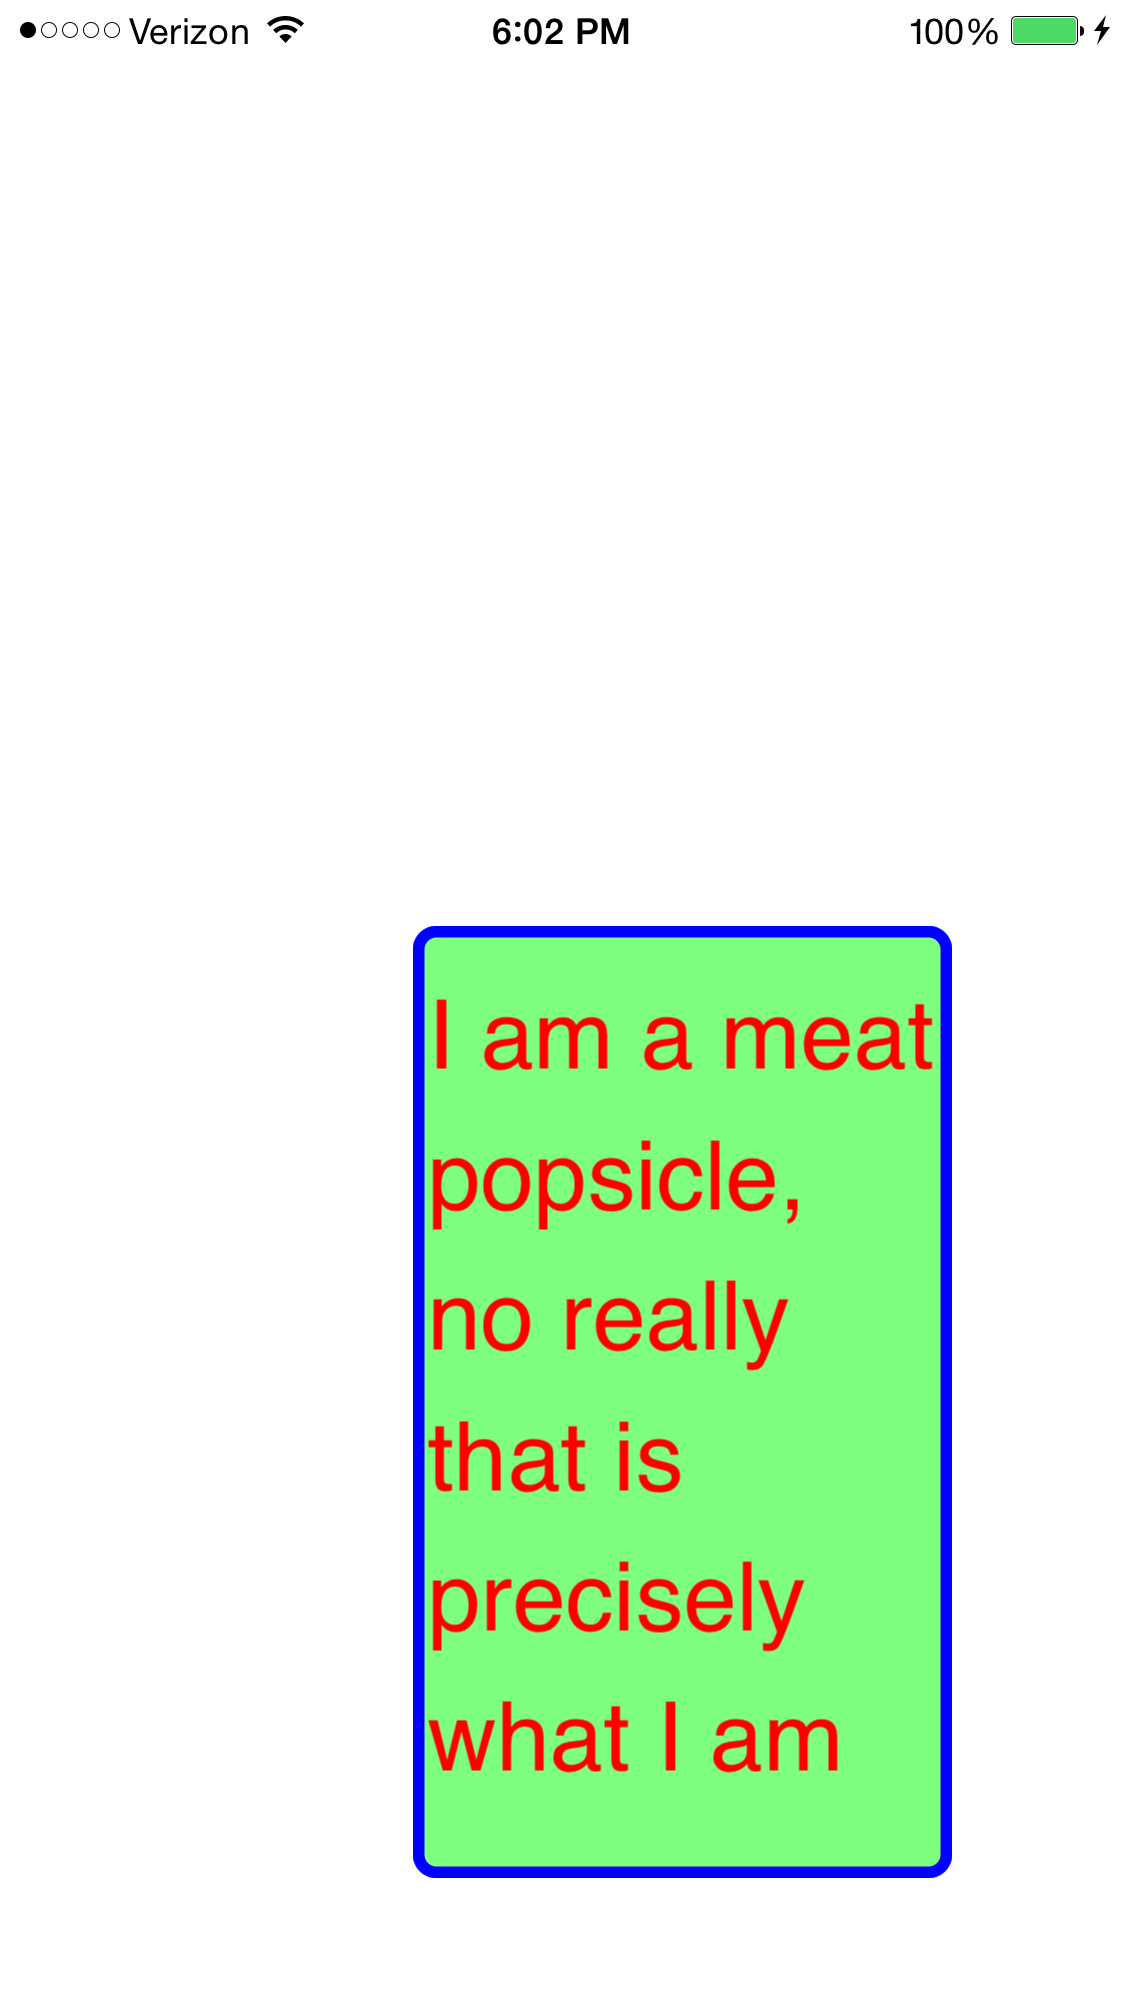
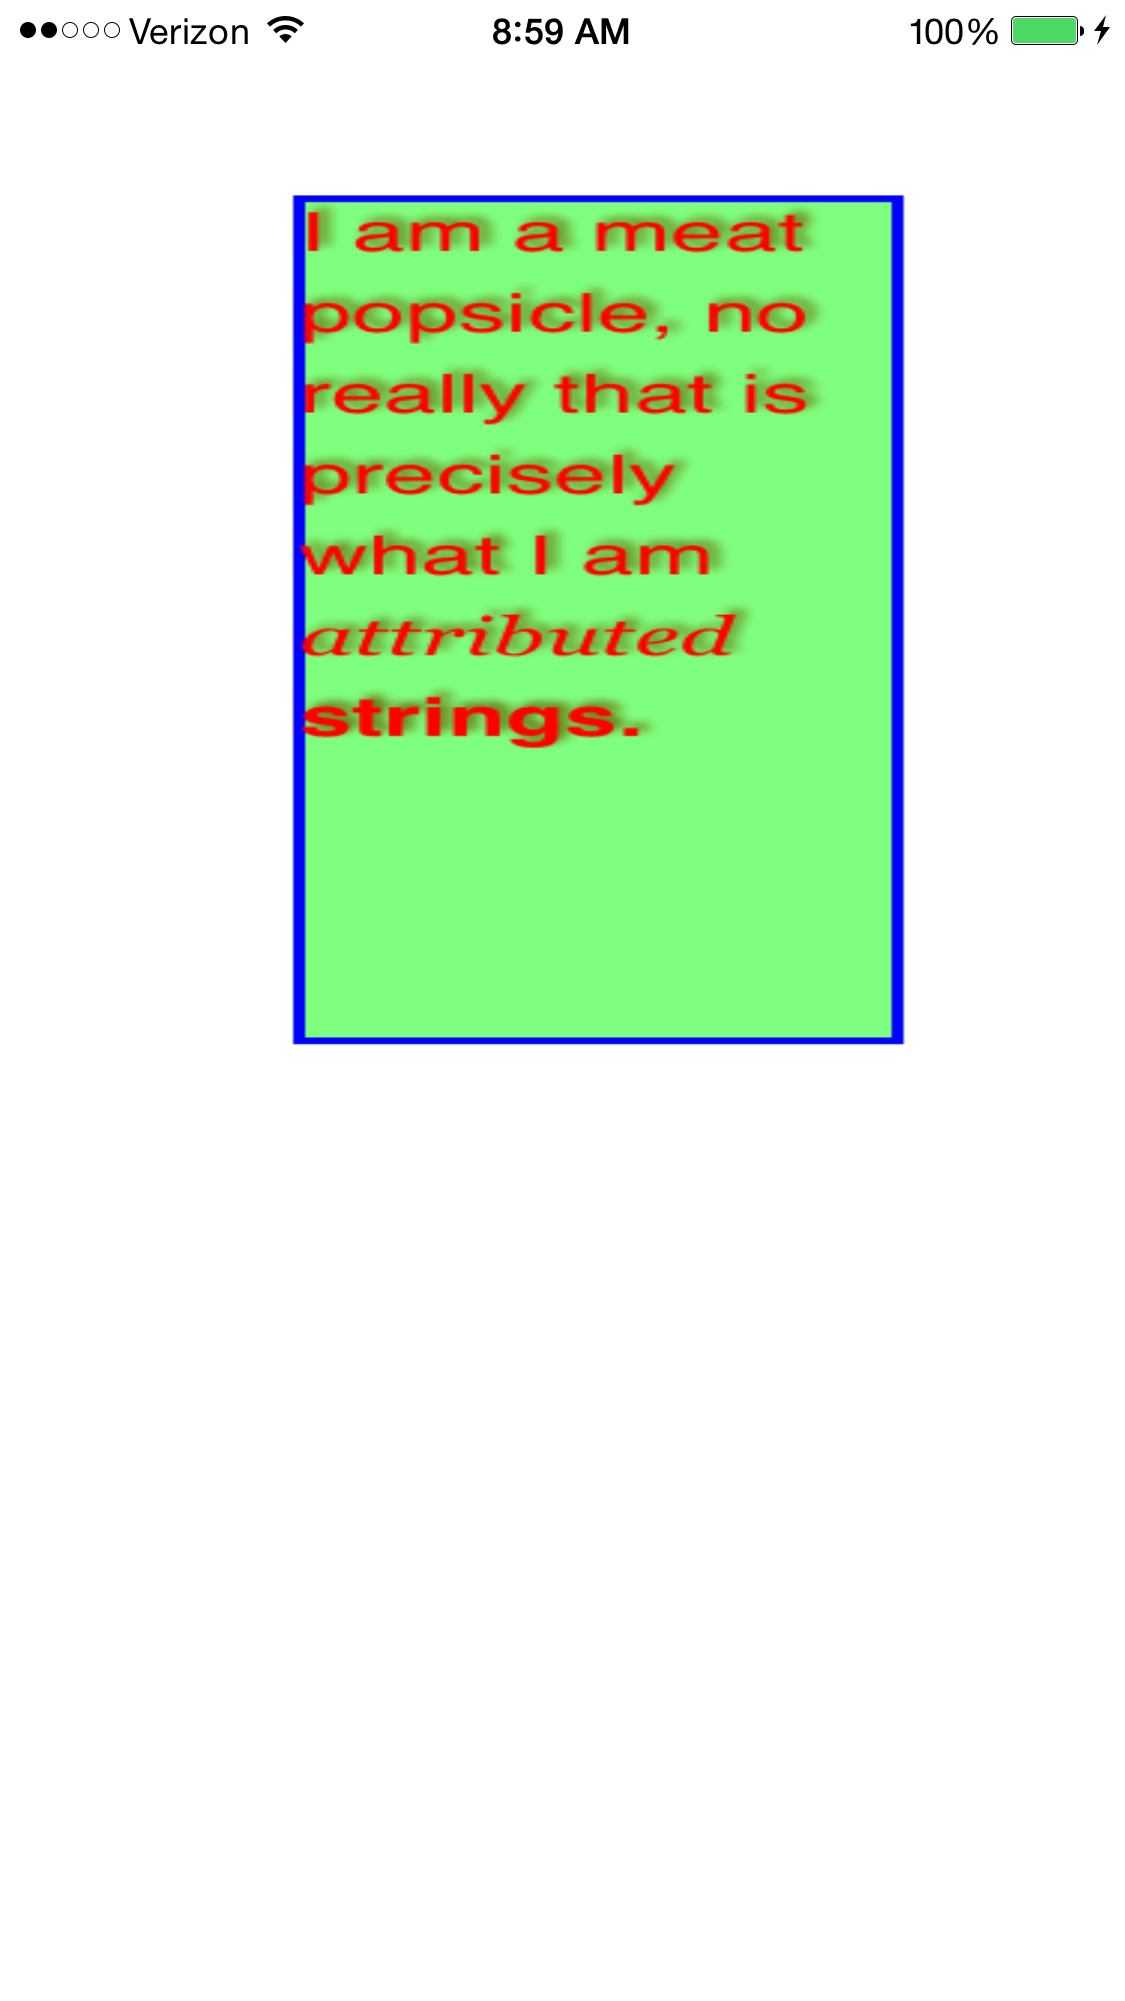
got a version of CG stuff cooking

diff --git a/textStyle/ViewController.swift b/textStyle/ViewController.swift
@@ -17,81 +17,194 @@ class MarginLabel : UILabel {
 }
 
 class ViewController: UIViewController {
+    
 
+    var fontName = "Helvetica"
+    var fontBoxWidth = CGFloat(200)
+    var fontBoxHeight = CGFloat(100)
+    var fontSize = CGFloat(32)
+    var textColorUI = UIColor(red: 1.0, green: 0, blue: 0, alpha: 1.0)
+    var textColor   : CGColor?
+    var fontUI : UIFont?
+    var font : CTFontRef?
+    var lineSpacing = CGFloat(10)
+    var autoSize = false
+    
+    var borderWidth = CGFloat(4.0)
+    var borderColor    = UIColor(red: 0.0, green: 0.0, blue: 1.0, alpha: 1.0).CGColor
+    var backgroundColor = UIColor(red: 0.0, green: 1.0, blue: 0.0, alpha: 0.5).CGColor
+    var dropShadowColor = UIColor(red: 0.0, green: 0.0, blue: 0.0, alpha: 1.0).CGColor
+    var shadowX = CGFloat(3.0)
+    var shadowY = CGFloat(3.0)
+    var borderShadowX = CGFloat(3.0)
+    var borderShadowY = CGFloat(3.0)
+    
+    
+    var para = NSMutableAttributedString()
+
+    required init(coder aDecoder: NSCoder) {
+        super.init(coder: aDecoder)
+        setProperties("I am a meat popsicle, no really that is precisely what I am")
+    }
+    
     override func viewDidLoad() {
         super.viewDidLoad()
-        // Do any additional setup after loading the view, typically from a nib.
-        
-//        var label = UILabel(frame: CGRectMake(0, 0, 200, 21))
-//        label.center = CGPointMake(160, 284)
-//        label.textAlignment = NSTextAlignment.Center
-//        label.text = "I'am a test label"
-//        self.view.addSubview(label)
 
-        drawText("I am a meat popsicle, no really that is precisely what I am", point: CGPointMake(CGFloat(100),CGFloat(50)))
+//        drawTextToScreen("I am a meat popsicle, no really that is precisely what I am", point: CGPointMake(CGFloat(100),CGFloat(50)))
 
+        drawText("I am a meat popsicle, no really that is precisely what I am",
+            point: CGPointMake(CGFloat(100),CGFloat(50)))
     }
 
     override func didReceiveMemoryWarning() {
         super.didReceiveMemoryWarning()
         // Dispose of any resources that can be recreated.
     }
-    /*
-    func drawText( text : NSString, image: UIImage, point: CGPoint) -> UIImage
-    {
-        var fontName = "Helvetica"
-        var fontBoxWidth = CGFloat(200)
-        var fontBoxHeight = CGFloat(100)
-        var fontSize = CGFloat(32)
-        var font = UIFont(name: fontName, size: fontSize)
-        UIGraphicsBeginImageContext(self.view.frame.size)
-        // blend modes https://developer.apple.com/library/mac/documentation/GraphicsImaging/Reference/CGContext/index.html#//apple_ref/c/tdef/CGBlendMode
-        image.drawInRect(CGRectMake(0,0,self.view.frame.size.width,self.view.frame.size.height), blendMode: kCGBlendModeSourceAtop, alpha: CGFloat(1.0))
-        var rect = CGRectMake(0,0,fontBoxWidth,fontBoxHeight)
-        // no label to set text color
-        // label.textColor = UIColor( colorWithRed:255 green:0 blue:0 alpha:1.0 )
-        // label.numberOfLines = 1
-        
-        // style for text http://stackoverflow.com/questions/18948180/align-text-using-drawinrectwithattributes
-        /// Make a copy of the default paragraph style
-        var  paragraphStyle = NSParagraphStyle.defaultParagraphStyle().mutableCopy() as NSMutableParagraphStyle
-        // set # of lines
-        /// Set line break mode
-        paragraphStyle.lineBreakMode = NSLineBreakMode(NSLineBreakByTruncatingTail)
-        /// Set text alignment
-        paragraphStyle.alignment = "NSTextAlignmentCenter"
-        
-        var attributes = [
-            NSFontAttributeName: font,
-            NSParagraphStyleAttributeName: paragraphStyle ]
-        
-        text.drawInRect(rect, withAttributes:attributes)
-        
-//        text.drawInRect(rect, withFont: font)
-        var newImage = UIGraphicsGetImageFromCurrentImageContext()
-        UIGraphicsEndImageContext()
-        return newImage
-    }
-    */
     
-    func drawText( text: String, point: CGPoint) -> UIImage
+    func setProperties(text: String) {
+        fontName = "Helvetica"
+        fontBoxWidth = CGFloat(200)
+        fontBoxHeight = CGFloat(500)
+        fontSize = CGFloat(32)
+        textColorUI = UIColor(red: 1.0, green: 0, blue: 0, alpha: 1.0)
+        textColor   = textColorUI.CGColor
+        fontUI = UIFont(name: fontName, size: fontSize) ?? UIFont.systemFontOfSize(fontSize)
+
+//        font = CTFontCreateWithName(name: fontName, size: fontSize, matrix: UnsafePointer<CGAffineTransform>)
+        // https://developer.apple.com/library/prerelease/ios/documentation/Carbon/Reference/CTFontRef/index.html
+        font = CTFontCreateWithName(fontName, fontSize, nil)
+        lineSpacing = CGFloat(10)
+        autoSize = true
+        
+        borderWidth = CGFloat(4.0)
+        borderColor    = UIColor(red: 0.0, green: 0.0, blue: 1.0, alpha: 1.0).CGColor
+        backgroundColor = UIColor(red: 0.0, green: 1.0, blue: 0.0, alpha: 0.5).CGColor
+        dropShadowColor = UIColor(red: 0.4, green: 0.4, blue: 0.0, alpha: 1.0).CGColor
+        
+        
+        
+        
+        let fontItal = CTFontCreateWithName("Georgia-Italic", fontSize, nil)
+        let fontBold = CTFontCreateWithName("Helvetica-Bold", fontSize, nil)
+        
+        //apply the current text style
+        let textFont = [ kCTFontAttributeName as String : font!, kCTForegroundColorAttributeName as String: textColor! ]
+        let italFont = [ kCTFontAttributeName as String: fontItal!, kCTForegroundColorAttributeName as String: textColor! ]
+        let boldFont = [ kCTFontAttributeName as String: fontBold!, kCTForegroundColorAttributeName as String: textColor!]
+        
+        let attrString1 = NSAttributedString(string: text, attributes:textFont)
+        let attrString2 = NSAttributedString(string: " attributed", attributes:italFont)
+        let attrString3 = NSAttributedString(string: " strings.", attributes:boldFont)
+        
+        // Add locally formatted strings to paragraph
+        para.appendAttributedString(attrString1)
+        para.appendAttributedString(attrString2)
+        para.appendAttributedString(attrString3)
+        
+        // Define paragraph styling
+        let paraStyle = NSMutableParagraphStyle()
+        //        paraStyle.firstLineHeadIndent = 15.0
+        //        paraStyle.paragraphSpacingBefore = 10.0
+        paraStyle.lineBreakMode = NSLineBreakMode.ByWordWrapping
+        paraStyle.lineSpacing = lineSpacing
+        
+        // Apply paragraph styles to paragraph
+        para.addAttribute(NSParagraphStyleAttributeName, value: paraStyle, range: NSRange(location: 0,length: para.length))
+        
+    }
+    
+
+    func drawText(text : NSString, point: CGPoint) {
+//        UIGraphicsBeginImageContextWithOptions(CGSizeMake(fontBoxWidth,fontBoxHeight), false, 2.0)
+//        let context = UIGraphicsGetCurrentContext()
+
+        
+        var fullWidth   = UInt(self.view.frame.width)
+        var fullHeight  = UInt(self.view.frame.height)
+        
+        // getting scaled from later draw call into full sized image
+//        var width = UInt(fontBoxWidth)
+//        var height = UInt(fontBoxHeight)
+        var width = UInt(fullWidth)
+        var height = UInt(fullHeight)
+        // ensure even width height, hopefully that will lead to 16-byte alignment below
+        if (width % 2) != 0 {
+            width++
+        }
+        if (height % 2) != 0 {
+            height++
+        }
+        
+        let bitsPerComponent : UInt = 8
+        let bytesPerRow : UInt = 4 * width
+        let colorSpace = CGColorSpaceCreateDeviceRGB()
+//        enum CGImageAlphaInfo : UInt32 {
+//            case None
+//            case PremultipliedLast
+//            case PremultipliedFirst
+//            case Last
+//            case First
+//            case NoneSkipLast
+//            case NoneSkipFirst
+//            case Only
+//        }
+
+        let bitmapInfo = CGBitmapInfo(CGImageAlphaInfo.PremultipliedLast.rawValue)
+
+//        Tip:  When you create a bitmap graphics context, you’ll get the best performance 
+//        if you make sure the data and bytesPerRow are 16-byte aligned.
+        let context = CGBitmapContextCreate(nil, width, height, bitsPerComponent, bytesPerRow, colorSpace, bitmapInfo)
+//        CGContextTranslateCTM(context, 0, CGFloat(height))
+//        CGContextScaleCTM(context, 1.0, -1.0)
+        
+        CGContextSetInterpolationQuality(context, kCGInterpolationHigh)
+
+        // scale example
+//        CGContextDrawImage(context, CGRect(origin: CGPointZero, size: CGSize(width: CGFloat(width), height: CGFloat(height))), image)
+        
+        CGContextSetTextMatrix(context, CGAffineTransformIdentity);
+        let path = CGPathCreateMutable()
+        let bounds = CGRectMake(point.x, point.y, fontBoxWidth, fontBoxHeight)
+
+
+        CGContextAddRect(context, bounds)
+        CGContextStrokePath(context)
+        CGContextSetFillColorWithColor(context,backgroundColor)
+        CGContextFillRect(context, bounds)
+
+        
+        // then outline
+        CGContextAddRect(context, bounds)
+        CGContextSetStrokeColorWithColor(context, borderColor)
+        CGContextSetLineWidth(context, borderWidth)
+        CGContextStrokePath(context)
+
+        // text rendering time
+        CGPathAddRect(path, nil, bounds)
+
+        // drop shadow
+        CGContextSaveGState(context)
+        CGContextSetShadowWithColor(context, CGSizeMake(shadowX, shadowY), 5.0, dropShadowColor)
+        
+        //rotate text
+//        CGContextSetTextMatrix(context, CGAffineTransformMakeRotation( CGFloat(M_PI) ))
+        // Create the framesetter with the attributed string.
+        
+        let framesetter = CTFramesetterCreateWithAttributedString(para);
+        let frame = CTFramesetterCreateFrame(framesetter,CFRangeMake(0, 0), path, nil)
+        CTFrameDraw(frame, context)
+        
+        let image = UIImage(CGImage: CGBitmapContextCreateImage(context))
+        let imageView = UIImageView(image: image!)
+        imageView.frame = CGRectMake(0,0,CGFloat(fullWidth),CGFloat(fullWidth))
+        view.addSubview(imageView)
+    }
+    
+    
+    func drawTextToScreen( text: String, point: CGPoint) -> UIImage
     {
         // Define string attributes
-        var fontName = "Helvetica"
-        var fontBoxWidth = CGFloat(200)
-        var fontBoxHeight = CGFloat(100)
-        var fontSize = CGFloat(32)
-        var textColorUI = UIColor(red: 1.0, green: 0, blue: 0, alpha: 1.0)
-        var textColor   = textColorUI.CGColor
-        var font = UIFont(name: fontName, size: fontSize) ?? UIFont.systemFontOfSize(fontSize)
-        var lineSpacing = CGFloat(10)
-        var autoSize = true
-        
-        var borderWidth = CGFloat(4.0)
-        var borderColor    = UIColor(red: 0.0, green: 0.0, blue: 1.0, alpha: 1.0).CGColor
-        var backgroundColor = UIColor(red: 0.0, green: 1.0, blue: 0.0, alpha: 0.5).CGColor
-
-        let textFont = [NSFontAttributeName:font ]
+        let textFont = [NSFontAttributeName: fontUI! ]
         
         let fontItal = UIFont(name: "Georgia-Italic", size:  fontSize) ?? UIFont.systemFontOfSize(fontSize)
         let italFont = [NSFontAttributeName:fontItal]
@@ -104,7 +217,7 @@ class ViewController: UIViewController {
         let para = NSMutableAttributedString()
         
         // Create locally formatted strings
-        let attrString1 = NSAttributedString(string: text, attributes:textFont)
+        let attrString1 = NSAttributedString(string: text, attributes: textFont)
         let attrString2 = NSAttributedString(string: " attributed", attributes:italFont)
         let attrString3 = NSAttributedString(string: " strings.", attributes:boldFont)
         
